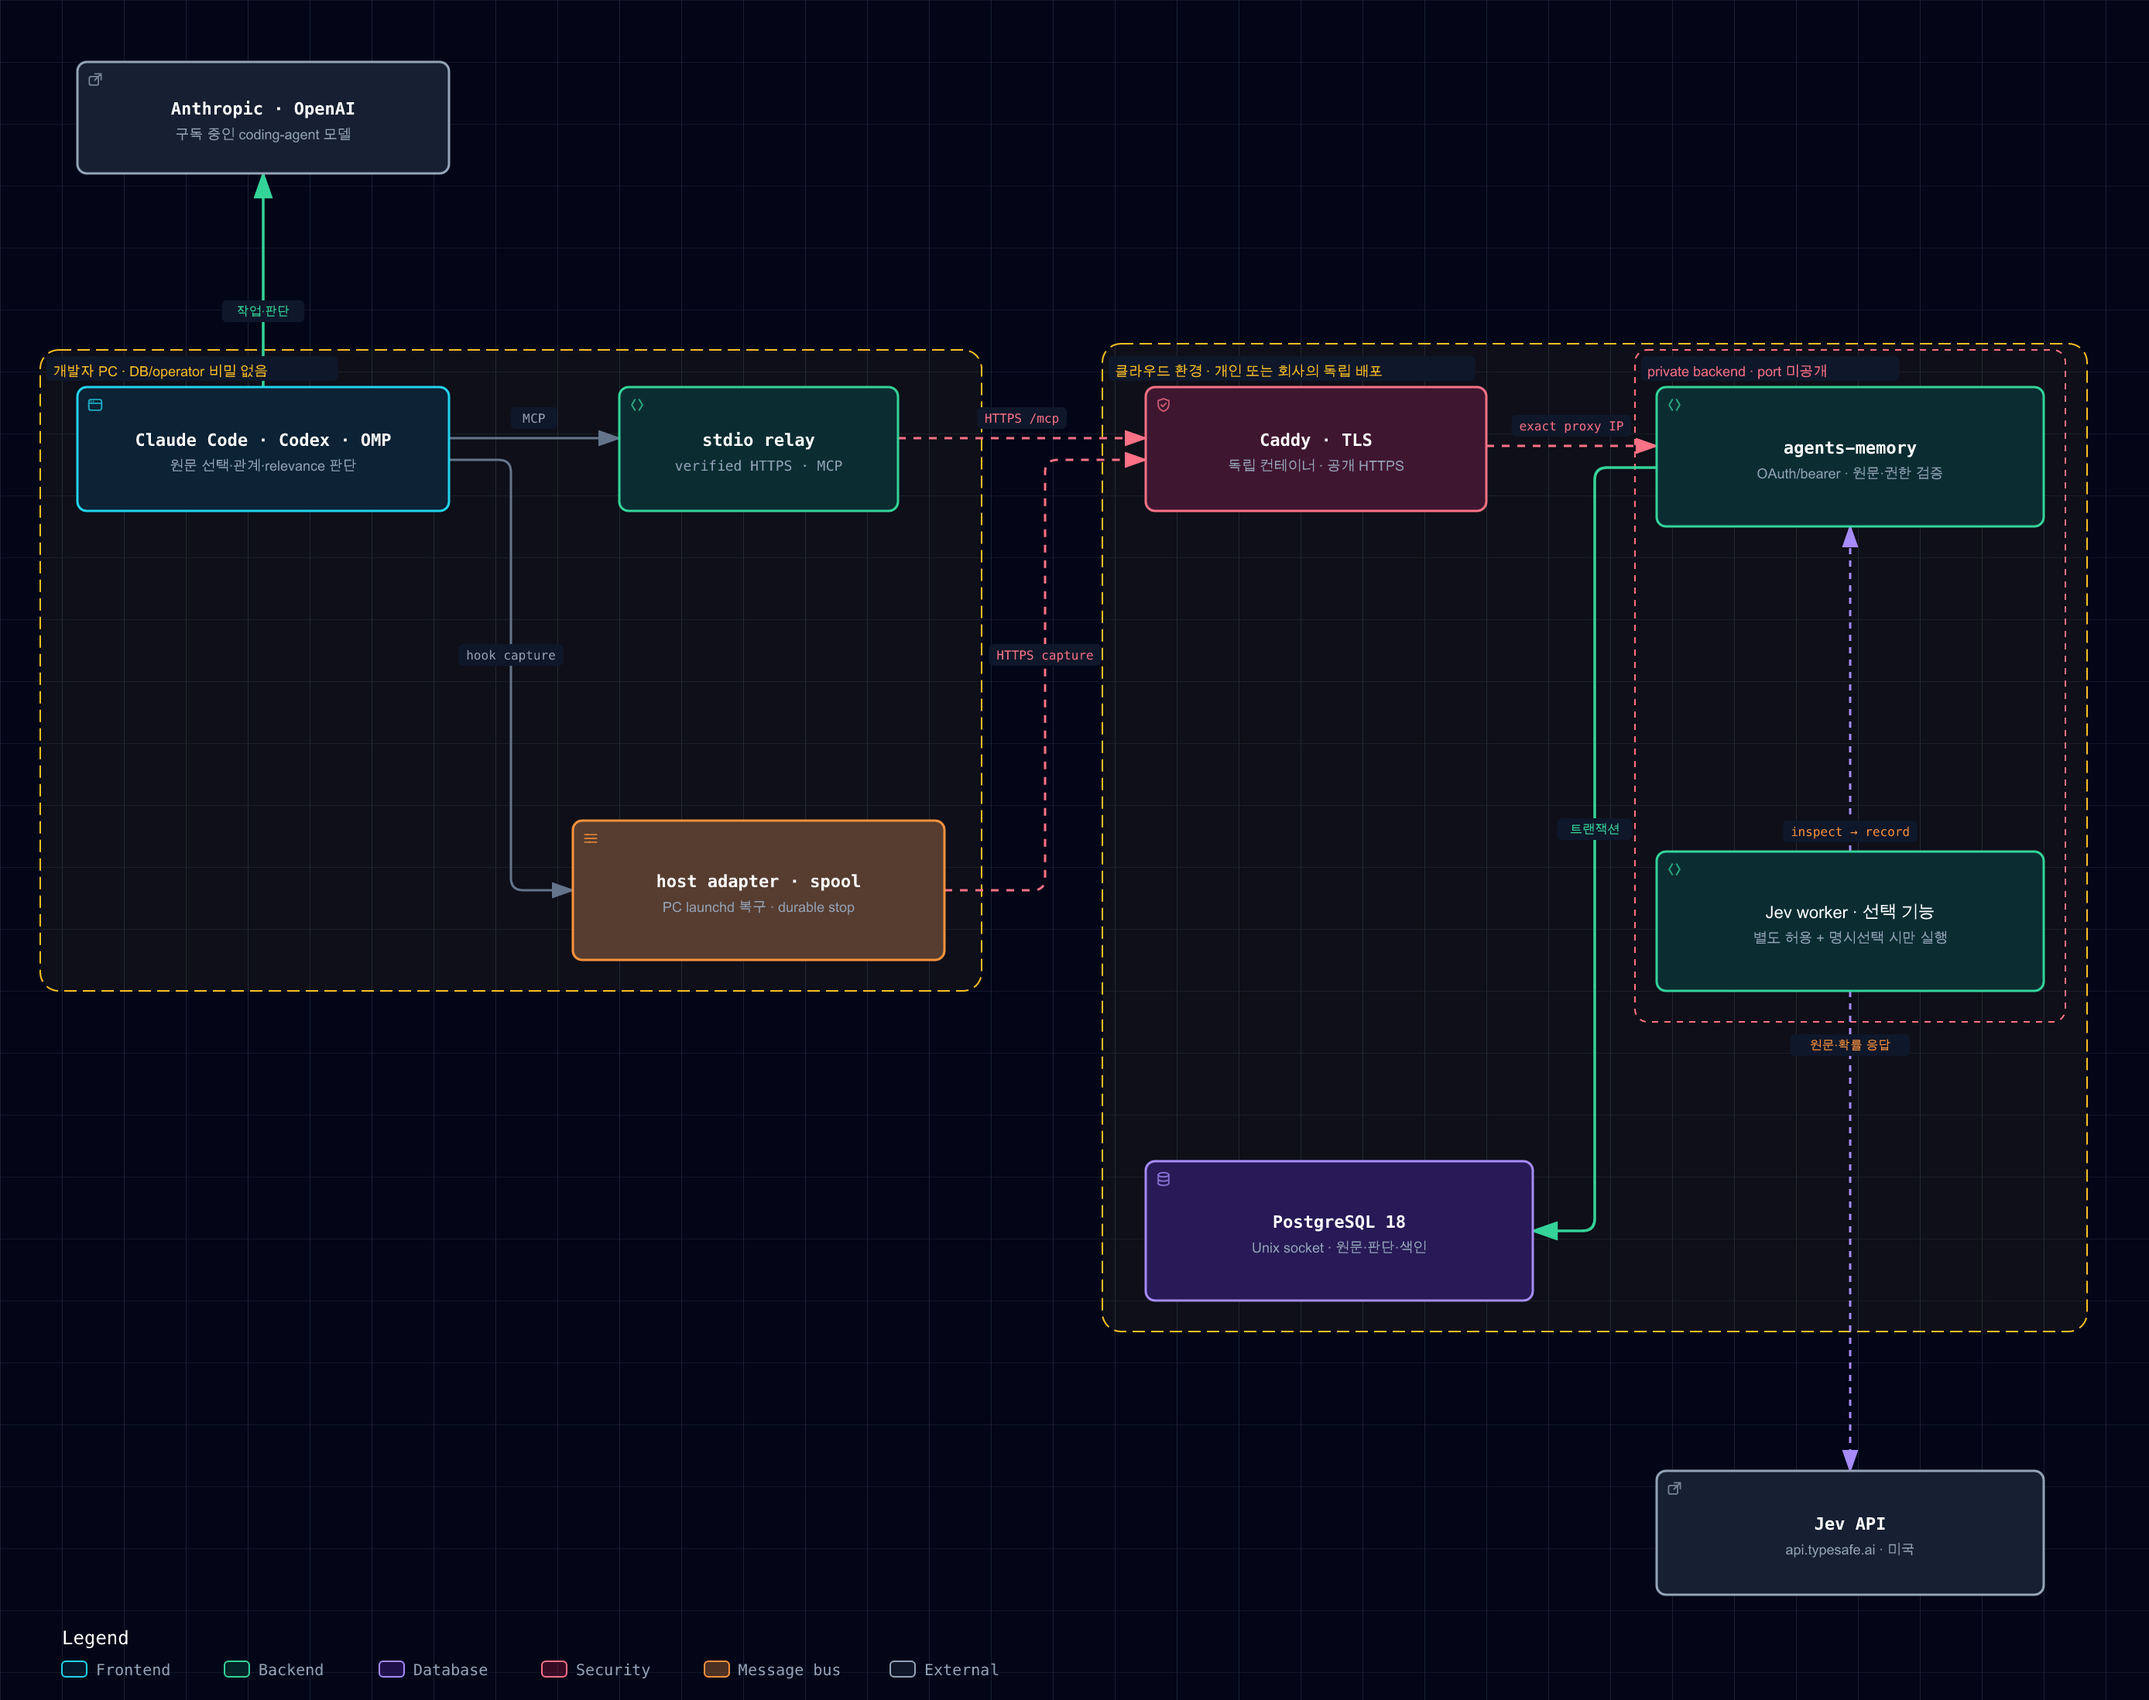
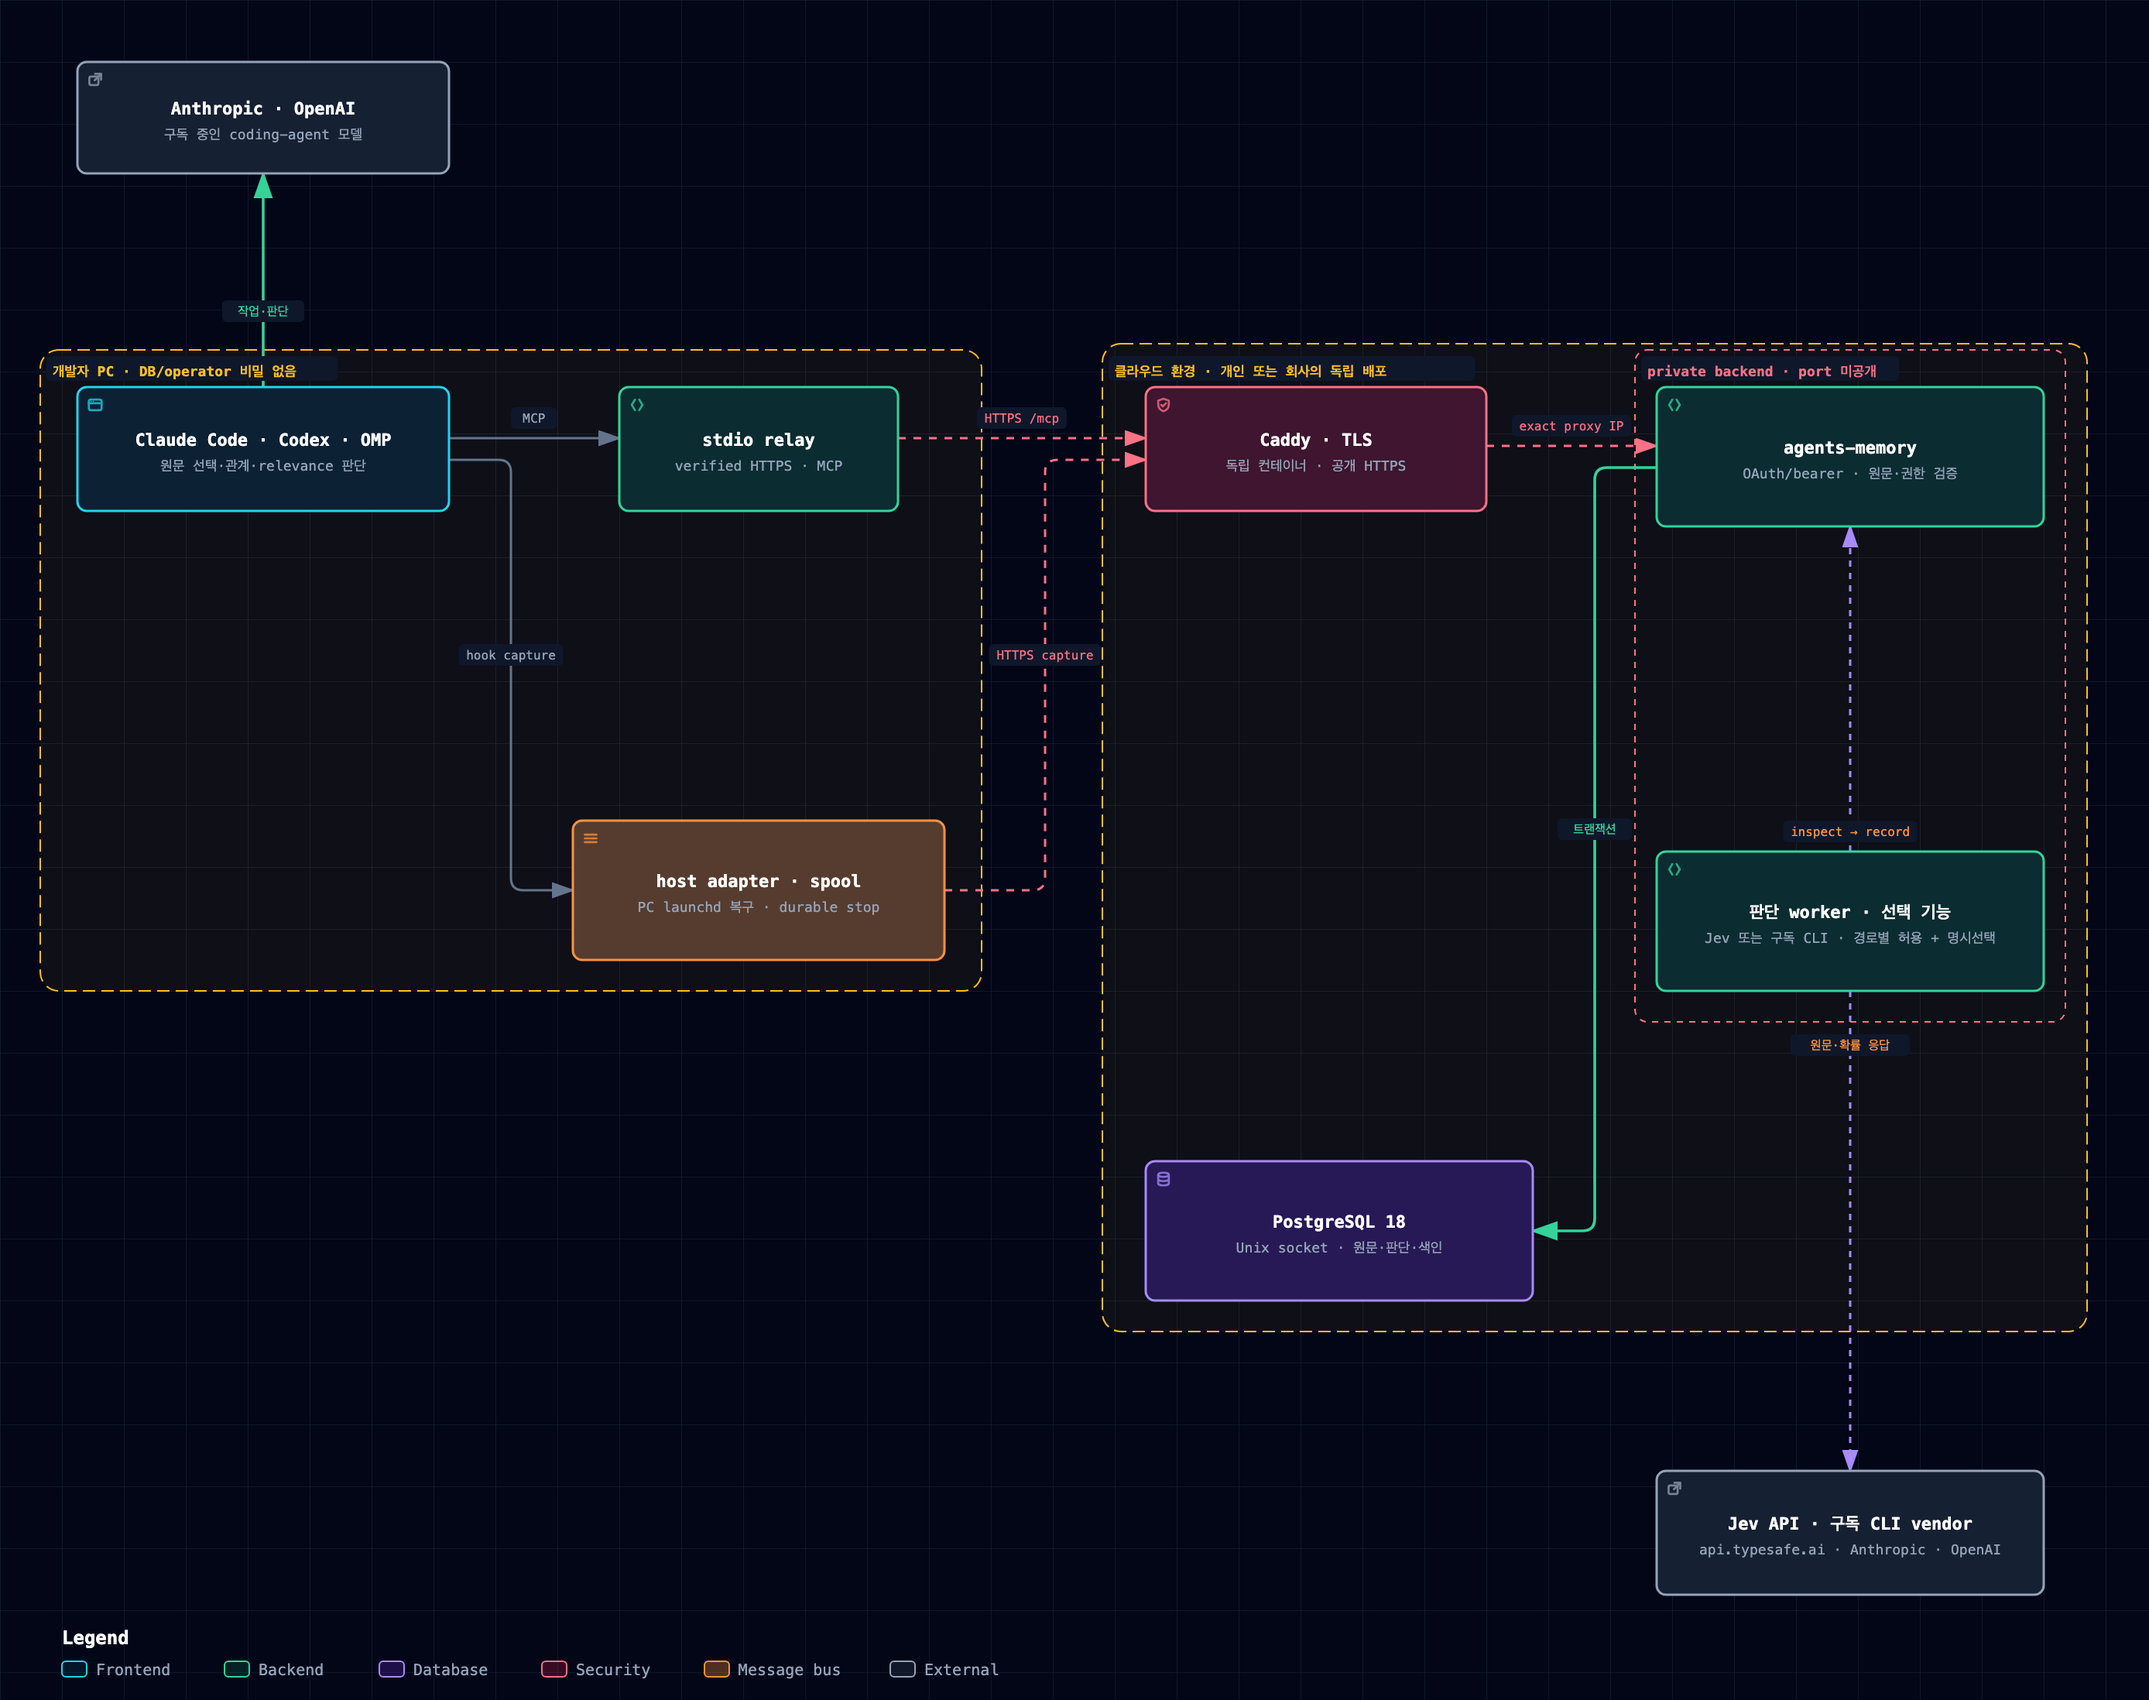
docs(images): draw the subscription CLI judge route in both architecture diagrams
Local: the judge worker now selects jev or subscription, with a dashed
headless CLI route next to Jev and a third case row (Jev, subscription
CLI, coding agent). Cloud: the Archify spec labels the optional worker
and its external endpoint for both routes; re-validated showcase 9/9
and re-rendered SVG/PNG in the same style.

diff --git a/README.md b/README.md
@@ -42,13 +42,13 @@ Python 3.12 이상 기반의 독립적인 메모리 서비스다. PC capture spo
 
 ### 로컬 환경 (기본 구성 완료)
 
-![로컬 환경: 개인·회사 운영 모두 독립 default-deny Jev 정책을 사용한다. 불가·미설정·미선택은 구독 coding-agent의 MCP 판단, 허용·명시선택은 Jev worker다. macOS launchd 자동 시작·장애 복구, DB readiness, bounded spool 자동 전송과 명시적 중지를 표시한다](docs/images/architecture-local.png)
+![로컬 환경: 개인·회사 운영 모두 Jev와 구독 CLI에 각각 독립 default-deny 정책을 사용한다. 허용·명시선택된 판단 worker는 Jev API 또는 로그인된 claude·codex·omp CLI를 headless로 호출한다. worker가 불가·미설정·미선택이면 구독 coding-agent가 MCP로 판단한다. macOS launchd 자동 시작·장애 복구, DB readiness, bounded spool 자동 전송과 명시적 중지를 표시한다](docs/images/architecture-local.png)
 
-coding agent는 stdio relay로 MCP를 호출하고, host adapter는 hook capture를 SQLite spool에 넣은 뒤 `/api/capture`로 보낸다. 서비스는 `127.0.0.1`에만 bind하며 PostgreSQL 18이 정본이다. Jev 불가·미설정·미선택인 로컬 환경에서도 구독 coding agent가 `memory_inspect` → 원문 선택·관계 판단 → `memory_record`로 기억을 관리한다. 개인·회사 모두 Jev 허용·명시선택 시 worker가 pending 원문 window와 관계를 판단해 같은 서버 검증으로 기록한다. relevance는 양쪽 모두 coding agent의 몫이며, 불확실·실패는 pending으로 남고 자동 fallback은 없다.
+coding agent는 stdio relay로 MCP를 호출하고, host adapter는 hook capture를 SQLite spool에 넣은 뒤 `/api/capture`로 보낸다. 서비스는 `127.0.0.1`에만 bind하며 PostgreSQL 18이 정본이다. worker 경로가 불가·미설정·미선택인 로컬 환경에서도 구독 coding agent가 `memory_inspect` → 원문 선택·관계 판단 → `memory_record`로 기억을 관리한다. 개인·회사 모두 Jev 또는 구독 CLI 경로가 허용·명시선택되면 worker가 pending 원문 window와 관계를 판단해 같은 서버 검증으로 기록한다. relevance는 모든 경로에서 coding agent의 몫이며, 불확실·실패는 pending으로 남고 자동 fallback은 없다.
 
 ### 클라우드 환경 (원격 경로 구현·격리 합성 검증)
 
-![클라우드 환경: 개인·회사 운영 모두 가능하다. PC의 구독 agent와 bounded spool이 검증된 HTTPS로 연결하고, Jev는 별도 허용·명시선택일 때만 호출한다. 실제 계정 provisioning과 corpus 이동은 별도다](docs/images/architecture-cloud.png)
+![클라우드 환경: 개인·회사 운영 모두 가능하다. PC의 구독 agent와 bounded spool이 검증된 HTTPS로 연결한다. 판단 worker는 Jev 또는 구독 CLI가 경로별로 허용·명시선택된 경우에만 호출한다. 실제 계정 provisioning과 corpus 이동은 별도다](docs/images/architecture-cloud.png)
 
 클라우드는 개인 또는 회사가 같은 core·API·schema·규칙을 원격에 배포한다. PC는 DB DSN·operator credential을 갖지 않는다. 원격 MCP/capture, bearer 또는 issuer·audience·scope·현재 PG 권한을 검증하는 OAuth, one-binding bootstrap, private CA, bounded spool과 durable PC 중지·재연결을 구현했다. `deploy/cloud/`는 기존 PostgreSQL 18 Unix socket·SCRAM 인증을 사용하는 non-root 배포다. Caddy와 app은 독립 컨테이너이며 backend port는 publish하지 않는다. app은 선언한 private proxy IP 하나와 `X-Forwarded-Proto=https`만 신뢰한다. Caddy는 app state·journal·DB socket을 mount하지 않는다.
 
